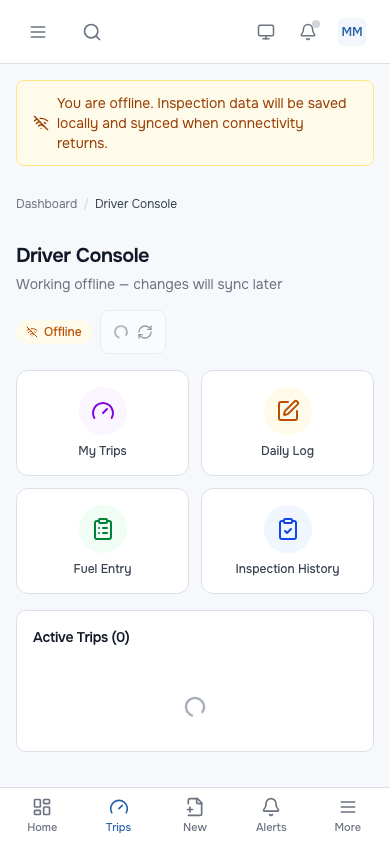
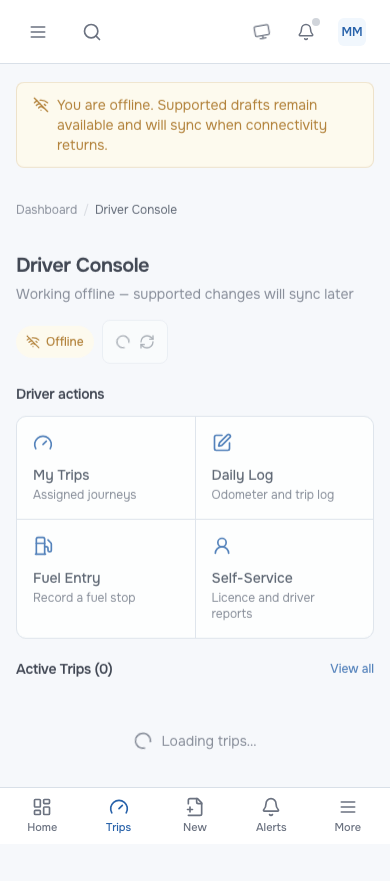
fix(driver): complete production operations audit

diff --git a/src/e2e/driver-mobile-offline.spec.ts b/src/e2e/driver-mobile-offline.spec.ts
@@ -30,7 +30,13 @@ import {
   type Browser,
 } from '@playwright/test';
 import { getDb } from '@/db';
-import { vehicleAllocations, vehicles, trips, tripIncidents } from '@/db/schema';
+import {
+  transportRequests,
+  vehicleAllocations,
+  vehicles,
+  trips,
+  tripIncidents,
+} from '@/db/schema';
 import { and, eq, gt, inArray, isNotNull, lt } from 'drizzle-orm';
 import { DEPARTURE_INSPECTION_ITEMS } from '@/lib/inspection-checklists';
 
@@ -143,21 +149,24 @@ async function setupDriverAssignedTrip(): Promise<{
   // One batched query (not one per vehicle) keeps the hook inside its budget.
   const db = getDb();
 
-  // Self-cleaning: earlier runs may have left allocations/trips in open states
-  // that make the vehicle and driver overlap checks 409 on the next run.
-  // Mirror the cleanup that `pnpm db:seed-e2e` performs (vehicle_allocations
-  // has no tenantId column — scope via the tenant's vehicles).
+  // Self-cleaning is restricted to this fixture's own requests. Never rewrite
+  // unrelated tenant allocations/trips just to make an E2E window available.
+  const fixtureRequestIds = db
+    .select({ id: transportRequests.id })
+    .from(transportRequests)
+    .where(
+      and(
+        eq(transportRequests.tenantId, TENANT_ID),
+        eq(transportRequests.purpose, 'Driver mobile PWA E2E field visit'),
+      ),
+    );
   const staleAllocStates = ['provisional', 'confirmed', 'issued'];
-  const tenantVehicleIds = db
-    .select({ id: vehicles.id })
-    .from(vehicles)
-    .where(eq(vehicles.tenantId, TENANT_ID));
   await db
     .update(vehicleAllocations)
     .set({ state: 'cancelled' })
     .where(
       and(
-        inArray(vehicleAllocations.vehicleId, tenantVehicleIds),
+        inArray(vehicleAllocations.requestId, fixtureRequestIds),
         inArray(vehicleAllocations.state, staleAllocStates),
       ),
     );
@@ -173,7 +182,11 @@ async function setupDriverAssignedTrip(): Promise<{
       .update(trips)
       .set({ status: 'closed' })
       .where(
-        and(eq(trips.tenantId, TENANT_ID), eq(trips.status, tripStatus)),
+        and(
+          eq(trips.tenantId, TENANT_ID),
+          inArray(trips.requestId, fixtureRequestIds),
+          eq(trips.status, tripStatus),
+        ),
       );
   }
 
@@ -239,7 +252,19 @@ async function setupDriverAssignedTrip(): Promise<{
   await approve(transport, workflowId);
   await approve(release, workflowId);
   await approve(authoriser, workflowId);
-  await approve(driver, workflowId);
+  const acknowledgement = await driver.post(`/api/trips/${tripId}/acknowledge`, {
+    data: {
+      vehicleConfirmed: true,
+      authorityConfirmed: true,
+      routeUnderstood: true,
+      passengersUnderstood: true,
+      licenceValidConfirmed: true,
+      responsibilityAccepted: true,
+      conditionsReviewed: true,
+      signature: 'Driver mobile E2E acknowledgement',
+    },
+  });
+  expect(acknowledgement.status(), await acknowledgement.text()).toBe(200);
 
   // ── Phase 32: advance to in_progress ────────────────────────────────────
   // The Inspector performs the official departure inspection (all items pass),
@@ -253,7 +278,11 @@ async function setupDriverAssignedTrip(): Promise<{
       fuelLevel: 'full',
       inspectorAcknowledged: true,
       driverAcknowledged: true,
-      photoKeys: ['e2e/departure-1.jpg', 'e2e/departure-2.jpg', 'e2e/departure-3.jpg'],
+      photoKeys: [
+        `tenant/${TENANT_ID}/inspections/e2e-departure-1.jpg`,
+        `tenant/${TENANT_ID}/inspections/e2e-departure-2.jpg`,
+        `tenant/${TENANT_ID}/inspections/e2e-departure-3.jpg`,
+      ],
       checklist: DEPARTURE_INSPECTION_ITEMS.map((item) => ({
         label: item.label,
         result: 'pass',
@@ -339,7 +368,7 @@ test.describe.serial('Driver Mobile PWA offline workflow', () => {
     // The trip workspace renders the incident entry point once the trip is
     // in progress. Phase 32: no driver-facing inspection buttons.
     await expect(page.locator('text=My Active Trip').first()).toBeVisible({
-      timeout: 20_000,
+      timeout: 60_000,
     });
     await expect(page.getByText('Report incident, damage or defect').first()).toBeVisible({
       timeout: 15_000,
@@ -382,7 +411,7 @@ test.describe.serial('Driver Mobile PWA offline workflow', () => {
     // context. The online event alone is not guaranteed to fire here.
     await page.reload({ waitUntil: 'domcontentloaded' });
     await expect(page.locator('text=My Active Trip').first()).toBeVisible({
-      timeout: 20_000,
+      timeout: 60_000,
     });
 
     // Poll the DB until the synced incident row appears (clientSyncId = draft id).

diff --git a/src/test/platform-admin.test.ts b/src/test/platform-admin.test.ts
@@ -40,6 +40,7 @@ function createMockDb() {
 
   // Build the MockDb type from method names
   type MockDb = Record<(typeof methods)[number], ReturnType<typeof vi.fn>> & {
+    batch: ReturnType<typeof vi.fn>;
     then: (onfulfilled: (v: unknown) => void) => void;
     pushResult: (data: unknown[]) => void;
   };
@@ -49,6 +50,8 @@ function createMockDb() {
   for (const method of methods) {
     (db as Record<string, ReturnType<typeof vi.fn>>)[method] = vi.fn(() => db);
   }
+
+  db.batch = vi.fn(async (queries: Array<PromiseLike<unknown>>) => Promise.all(queries));
 
   db.then = (resolve: (v: unknown) => void) => {
     resolve(queue.shift() || []);
@@ -361,10 +364,16 @@ describe('Platform Tenants API — GET /api/platform/tenants/[id]', () => {
 
     // Tenant query
     mockDb.pushResult([tenant]);
+    // The deletion-assessment Promise resolves its six count queries before
+    // the sibling branding thenable in this lightweight Drizzle mock.
+    mockDb.pushResult([{ count: 7 }]);
+    mockDb.pushResult([{ count: 0 }]);
+    mockDb.pushResult([{ count: 0 }]);
+    mockDb.pushResult([{ count: 0 }]);
+    mockDb.pushResult([{ count: 0 }]);
+    mockDb.pushResult([{ count: 0 }]);
     // Branding query
     mockDb.pushResult([branding]);
-    // Member count
-    mockDb.pushResult([{ count: 7 }]);
 
     vi.mocked(getDb).mockReturnValue(mockDb as never);
 
@@ -557,10 +566,12 @@ describe('Trip Logs API — POST /api/trip-logs', () => {
     mockDb.pushResult([trip]);
     // Authenticated employee lookup
     mockDb.pushResult([{ id: 'employee-1' }]);
-    // Insert returning
+    // Atomic log insert
     mockDb.pushResult([newEntry]);
-    // Audit insert
+    // Atomic audit insert
     mockDb.pushResult([]);
+    // Reload committed log
+    mockDb.pushResult([newEntry]);
 
     vi.mocked(getDb).mockReturnValue(mockDb as never);
 

diff --git a/src/app/api/trips/[id]/start/route.ts b/src/app/api/trips/[id]/start/route.ts
@@ -280,8 +280,8 @@ export async function POST(req: NextRequest, { params }: { params: Promise<{ id:
           ${`Trip started: vehicle ${tripRecord.vehicleId.slice(0, 8)}`},
           jsonb_build_object(
             'authorityId', ${trip.authorityId}::text,
-            'beginningOdometer', ${Number(body.beginningOdometer)},
-            'fuelLevel', ${fuelLevel},
+            'beginningOdometer', ${Number(body.beginningOdometer)}::integer,
+            'fuelLevel', ${fuelLevel}::text,
             'passengersConfirmed', true,
             'location', CASE WHEN ${location}::text IS NULL THEN NULL ELSE ${location}::jsonb END
           ),
@@ -289,16 +289,16 @@ export async function POST(req: NextRequest, { params }: { params: Promise<{ id:
         FROM status_event
         RETURNING id
       )
-      SELECT CASE
+      SELECT CAST(CASE
         WHEN (SELECT count(*) FROM trip_claim) = 1
          AND (SELECT count(*) FROM authority_claim) = 1
          AND (SELECT count(*) FROM request_claim) = 1
          AND (SELECT count(*) FROM vehicle_claim) = 1
          AND (SELECT count(*) FROM status_event) = 1
          AND (SELECT count(*) FROM audit_insert) = 1
-        THEN 1
-        ELSE CAST('atomic_trip_start_failed' AS integer)
-      END AS committed
+        THEN '1'
+        ELSE 'atomic_trip_start_failed_' || (SELECT count(*) FROM trip_claim)::text
+      END AS integer) AS committed
     `);
 
     if (tripRecord.allocationId) {

diff --git a/src/app/api/trips/[id]/issue/route.ts b/src/app/api/trips/[id]/issue/route.ts
@@ -194,14 +194,21 @@ export async function POST(req: NextRequest, { params }: { params: Promise<{ id:
         FROM request_claim
         RETURNING id
       )
-      SELECT CASE
+      -- Keep the rollback sentinel dependent on the data-changing CTE results.
+      -- A constant invalid cast in the ELSE branch may be folded by PostgreSQL
+      -- while planning, which aborts even a fully successful issue operation.
+      SELECT CAST(CASE
         WHEN (SELECT count(*) FROM trip_claim) = 1
          AND (SELECT count(*) FROM issue_insert) = 1
          AND (SELECT count(*) FROM request_claim) = 1
          AND (SELECT count(*) FROM audit_insert) = 1
-        THEN 1
-        ELSE CAST('atomic_trip_issue_failed' AS integer)
-      END AS committed
+        THEN '1'
+        ELSE 'atomic_trip_issue_failed_'
+          || (SELECT count(*) FROM trip_claim)::text
+          || (SELECT count(*) FROM issue_insert)::text
+          || (SELECT count(*) FROM request_claim)::text
+          || (SELECT count(*) FROM audit_insert)::text
+      END AS integer) AS committed
     `);
 
     const [issue] = await db

diff --git a/src/lib/allocations/vehicle-replacement.ts b/src/lib/allocations/vehicle-replacement.ts
@@ -415,7 +415,7 @@ export async function replaceVehicle(
         FROM allocation_claim
         RETURNING id
       )
-      SELECT CASE
+      SELECT CAST(CASE
         WHEN (SELECT count(*) FROM candidate_lock) = 1
          AND (SELECT count(*) FROM allocation_claim) = 1
          AND CASE WHEN ${Boolean(context.tripId)} THEN (SELECT count(*) FROM trip_update) = 1 ELSE true END
@@ -432,9 +432,9 @@ export async function replaceVehicle(
            AND (SELECT count(*) FROM replacement_status_event) = 1
            ELSE true END
          AND (SELECT count(*) FROM audit_insert) = 1
-        THEN 1
-        ELSE CAST('atomic_vehicle_replacement_failed' AS integer)
-      END AS committed
+        THEN '1'
+        ELSE 'atomic_vehicle_replacement_failed_' || (SELECT count(*) FROM allocation_claim)::text
+      END AS integer) AS committed
     `);
   } catch (error) {
     if (String(error).includes('atomic_vehicle_replacement_failed')) {

diff --git a/src/app/api/trips/[id]/return/route.ts b/src/app/api/trips/[id]/return/route.ts
@@ -202,15 +202,15 @@ export async function POST(req: NextRequest, { params }: { params: Promise<{ id:
         FROM vehicle_claim
         RETURNING id
       )
-      SELECT CASE
+      SELECT CAST(CASE
         WHEN (SELECT count(*) FROM trip_claim) = 1
          AND (SELECT count(*) FROM authority_claim) = 1
          AND (SELECT count(*) FROM odometer_insert) = 1
          AND (SELECT count(*) FROM vehicle_claim) = 1
          AND (SELECT count(*) FROM audit_insert) = 1
-        THEN 1
-        ELSE CAST('atomic_trip_return_failed' AS integer)
-      END AS committed
+        THEN '1'
+        ELSE 'atomic_trip_return_failed_' || (SELECT count(*) FROM trip_claim)::text
+      END AS integer) AS committed
     `);
 
     await recordTenantRequestActivity({

diff --git a/src/app/api/trips/[id]/authority/amendments/route.ts b/src/app/api/trips/[id]/authority/amendments/route.ts
@@ -292,14 +292,14 @@ export async function PATCH(
         FROM version_insert
         RETURNING id
       )
-      SELECT CASE
+      SELECT CAST(CASE
         WHEN (SELECT count(*) FROM amendment_claim) = 1
          AND (SELECT count(*) FROM authority_claim) = 1
          AND (SELECT count(*) FROM version_insert) = 1
          AND (SELECT count(*) FROM audit_insert) = 1
-        THEN 1
-        ELSE CAST('atomic_authority_amendment_failed' AS integer)
-      END AS committed
+        THEN '1'
+        ELSE 'atomic_authority_amendment_failed_' || (SELECT count(*) FROM amendment_claim)::text
+      END AS integer) AS committed
     `);
 
     return NextResponse.json({ success: true });

diff --git a/src/app/api/requests/[id]/cancel/route.ts b/src/app/api/requests/[id]/cancel/route.ts
@@ -164,12 +164,12 @@ export async function PATCH(
         FROM request_claim
         RETURNING id
       )
-      SELECT CASE
+      SELECT CAST(CASE
         WHEN (SELECT count(*) FROM request_claim) = 1
          AND (SELECT count(*) FROM audit_insert) = 1
-        THEN 1
-        ELSE CAST('atomic_request_cancel_failed' AS integer)
-      END AS committed
+        THEN '1'
+        ELSE 'atomic_request_cancel_failed_' || (SELECT count(*) FROM request_claim)::text
+      END AS integer) AS committed
     `);
 
     return NextResponse.json({ success: true, status: 'cancelled' });

diff --git a/src/app/api/requests/[id]/discard/route.ts b/src/app/api/requests/[id]/discard/route.ts
@@ -89,12 +89,12 @@ export async function PATCH(
         FROM draft_claim
         RETURNING id
       )
-      SELECT CASE
+      SELECT CAST(CASE
         WHEN (SELECT count(*) FROM draft_claim) = 1
          AND (SELECT count(*) FROM audit_insert) = 1
-        THEN 1
-        ELSE CAST('atomic_request_discard_failed' AS integer)
-      END AS committed
+        THEN '1'
+        ELSE 'atomic_request_discard_failed_' || (SELECT count(*) FROM draft_claim)::text
+      END AS integer) AS committed
     `);
 
     return NextResponse.json({ success: true, status: 'cancelled' });

diff --git a/src/app/api/programmes/[id]/action/route.ts b/src/app/api/programmes/[id]/action/route.ts
@@ -228,12 +228,12 @@ export async function POST(
         FROM programme_claim
         RETURNING id
       )
-      SELECT CASE
+      SELECT CAST(CASE
         WHEN (SELECT count(*) FROM programme_claim) = 1
          AND (SELECT count(*) FROM audit_insert) = 1
-        THEN 1
-        ELSE CAST('atomic_programme_action_failed' AS integer)
-      END AS committed
+        THEN '1'
+        ELSE 'atomic_programme_action_failed_' || (SELECT count(*) FROM programme_claim)::text
+      END AS integer) AS committed
     `);
 
     const [updated] = await db
